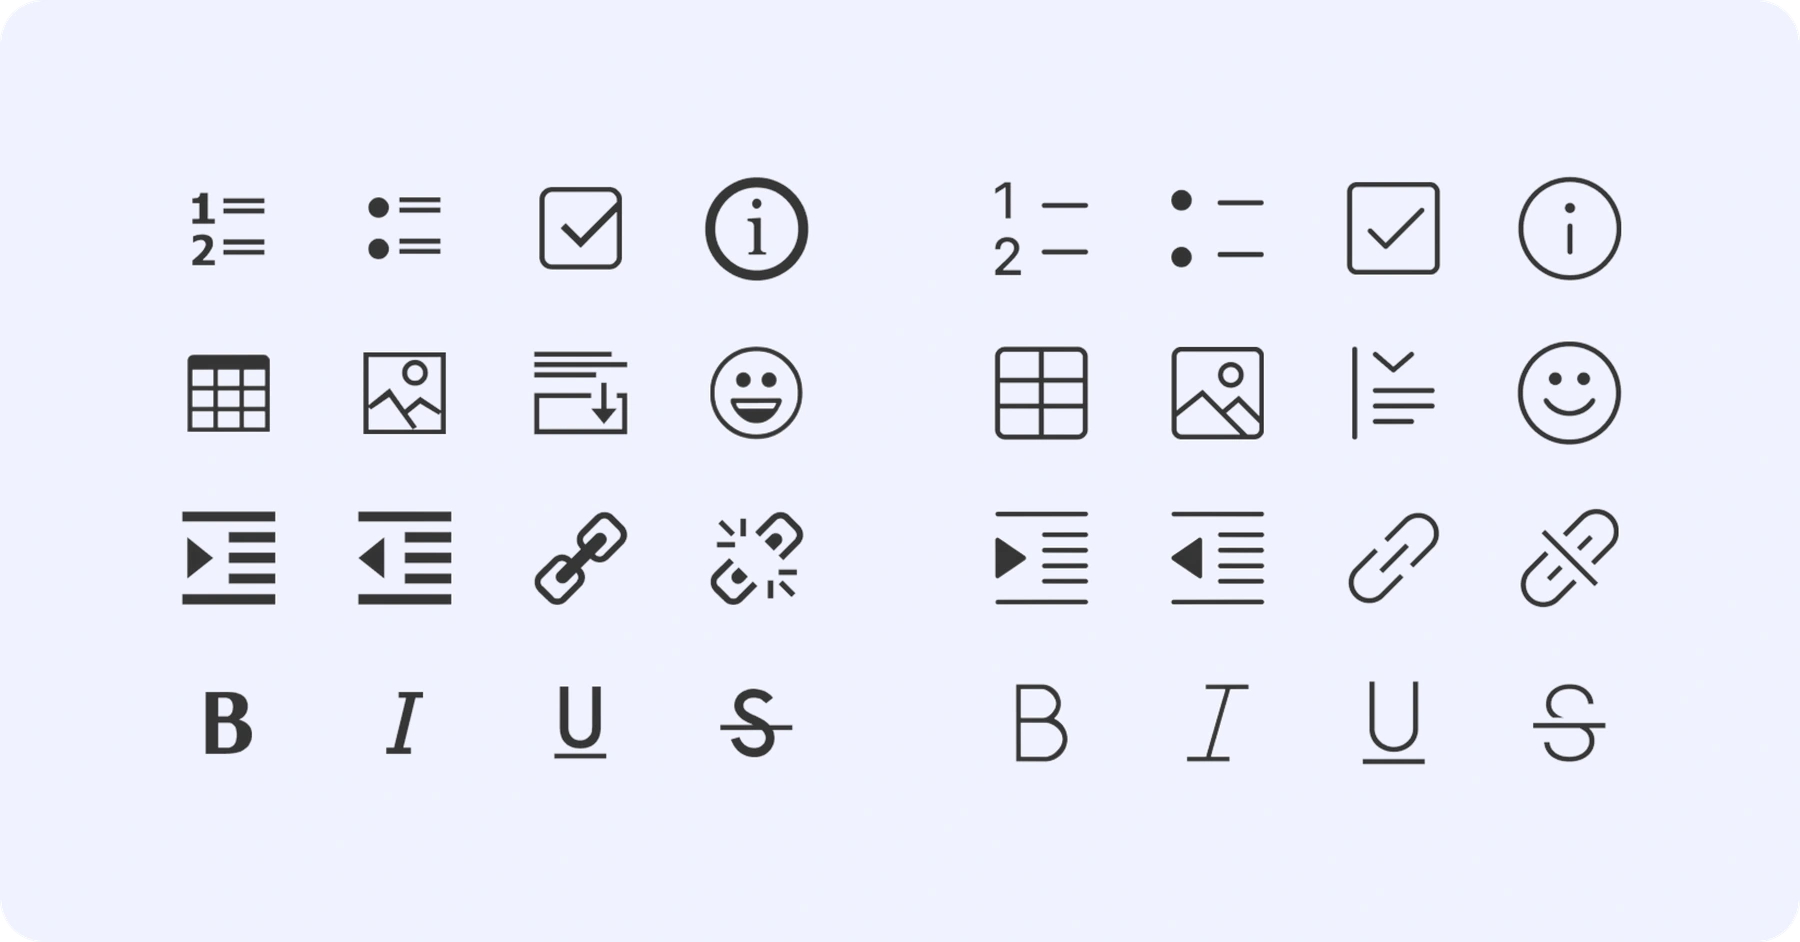
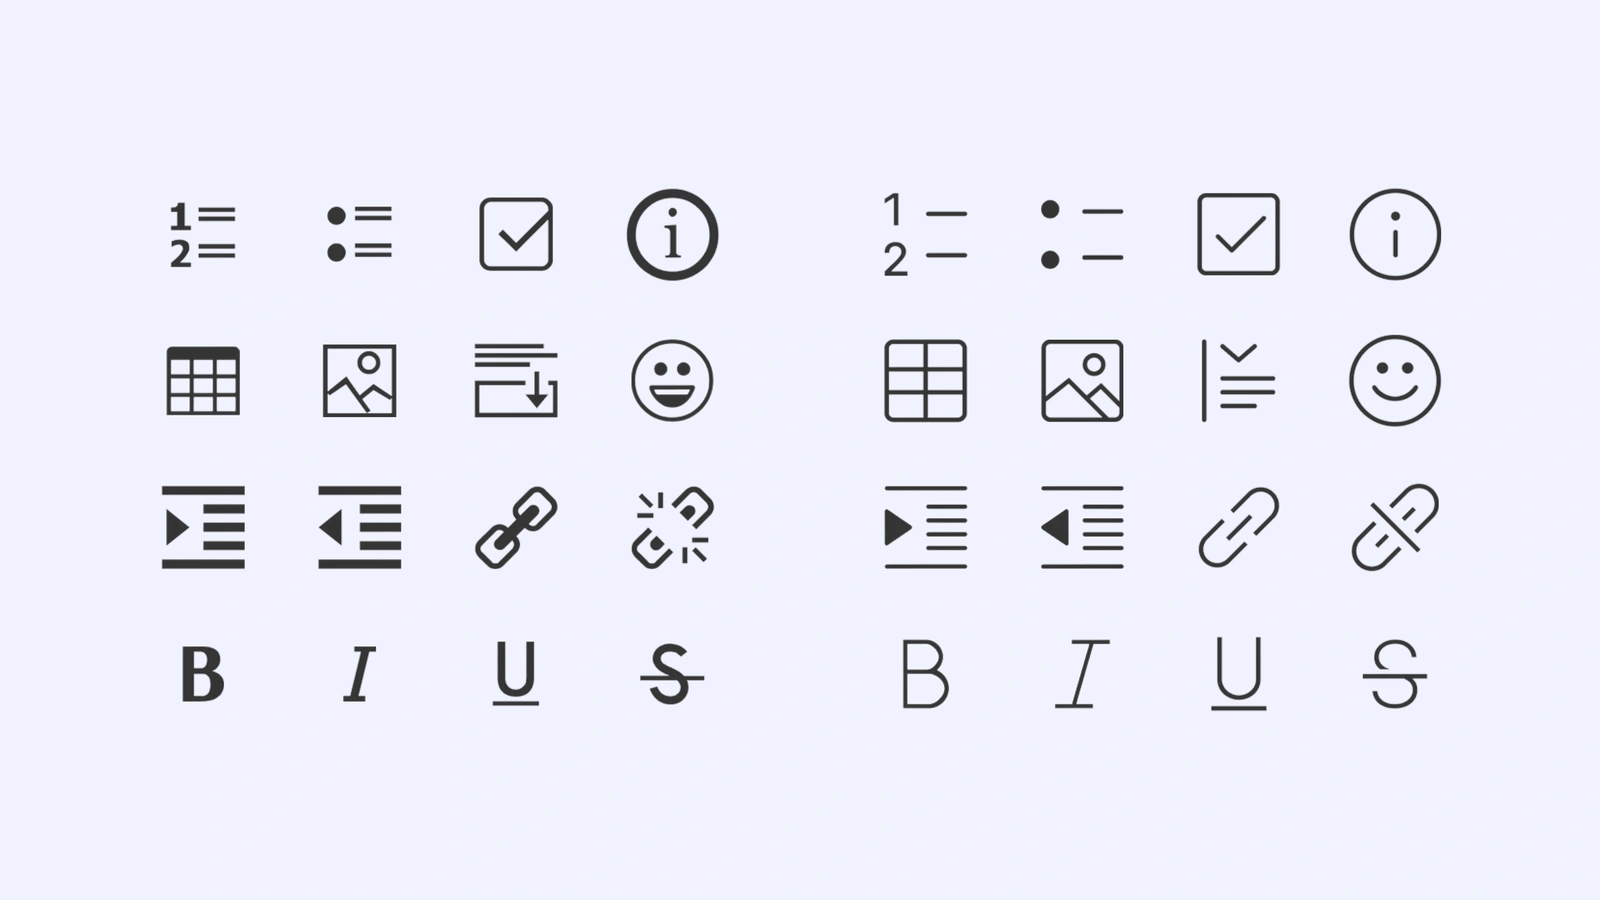
Replace case covers with supplied 16:9 artwork

diff --git a/src/styles/home.css b/src/styles/home.css
@@ -59,7 +59,7 @@
 .portfolio-home .section { padding-top: clamp(22px, 3vw, 38px); }
 .portfolio-home #cases { border-top: 0; }
 .portfolio-home .case-grid { row-gap: clamp(28px, 4vw, 48px); }
-.portfolio-home .case-card .case-cover { padding: 0; }
+.portfolio-home .case-card .case-cover { aspect-ratio: 16 / 9; padding: 0; }
 .portfolio-home .case-card .case-cover img { object-fit: cover; }
 .portfolio-home .case-heading h3 { font-weight: var(--weight-semibold); }
 .portfolio-home .case-caption .summary { max-width: 54ch; }
